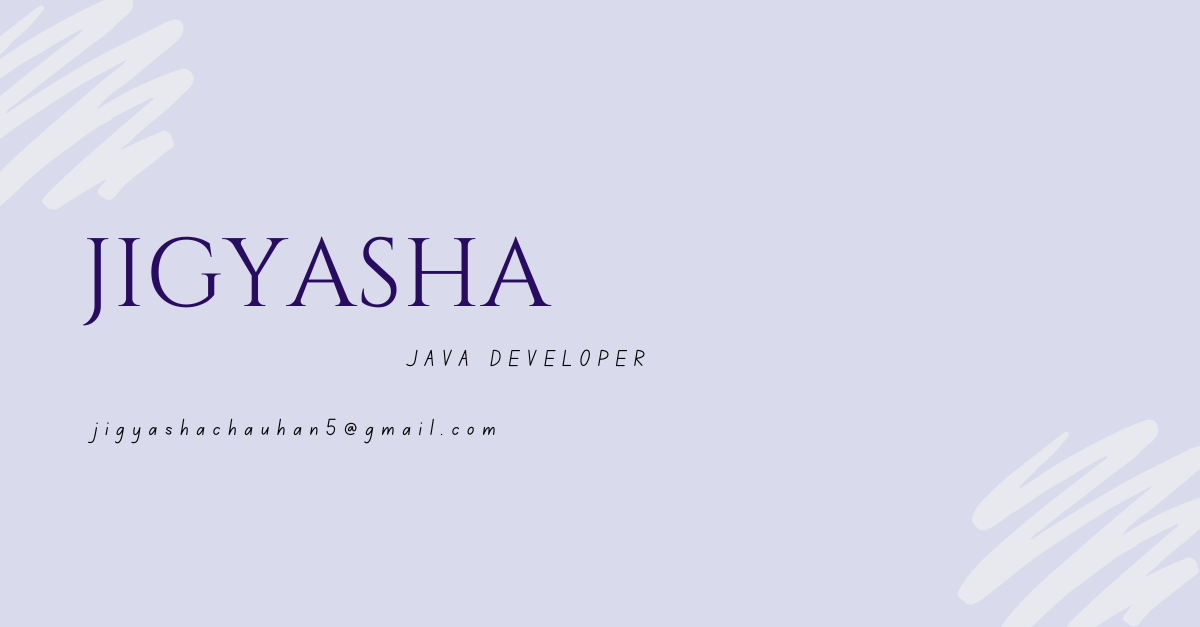
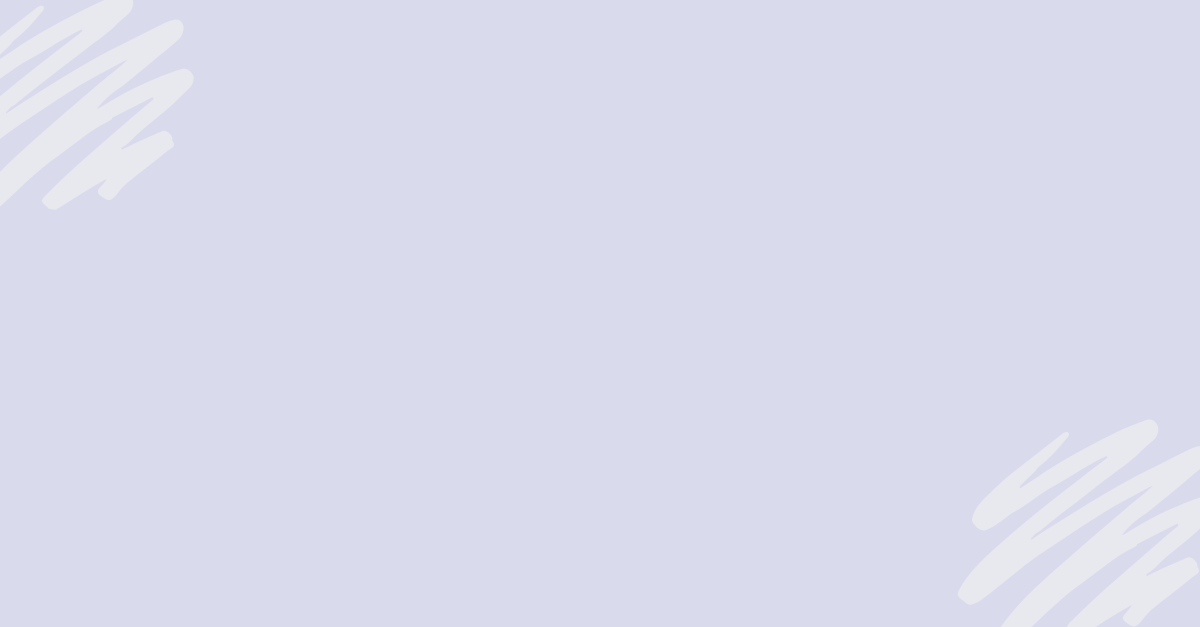
Add file

Changed region(s): [[0.0617, 0.3636, 0.4625, 0.5152], [0.0925, 0.6667, 0.37, 0.697], [0.37, 0.5455, 0.5242, 0.5758]]

diff --git a/index.html b/index.html
@@ -21,35 +21,36 @@
 
   <section>
     <!-- Navbar Start -->
- <div class="container-fluid fixed-top px-0 wow fadeIn shadow-lg  data-wow-delay="0.1s style="top: 0px">
-   <div class="top-bar row gx-0 align-items-center d-none d-lg-flex">
-       <div class="col-lg-6 px-5 text-end">
-         
-           <small><i class="fa fa-envelope text-primary me-2"></i><a href="mailto:jigyashachauhan5@gmail.com">jigyashachauhan5@gmail.com</a></small>
-           <small class="ms-4"><i class="fa fa-phone-alt text-primary me-2"></i><a href="tel:+916398480640">+91 6398480640</a></small>
-       </div>
-   </div>
- 
-   <nav class="navbar navbar-expand-lg navbar-light py-lg-0 px-lg-5 wow fadeIn" data-wow-delay="0.1s">
-       <a href="#" class="navbar-brand ms-4 ms-lg-0 animated slideInUp ">
-           <h1 class="display-5 text-primary m-0">CodeLine</h1>
-       </a>
-       <button type="button" class="navbar-toggler me-4" data-bs-toggle="collapse"
-           data-bs-target="#navbarCollapse">
-           <span class="navbar-toggler-icon"></span>
-       </button>
-       <div class="collapse navbar-collapse animated slideInDown" id="navbarCollapse">
-           <div class="navbar-nav ms-auto p-4 p-lg-0">
-               <a href="#" class="nav-item nav-link active">Home</a>
-               <a href="#about" class="nav-item nav-link">About</a>
-               <a href="#services" class="nav-item nav-link">Services</a>
-               <a href="#projects" class="nav-item nav-link">Projects</a>
-               <a href="#contact" class="nav-item nav-link">Contact</a>
-           </div>
-       </div>
-   </nav>
- </div>
- <!-- Navbar End -->
+    <div class="container-fluid fixed-top px-0 wow fadeIn shadow-lg  data-wow-delay=" 0.1s style="top: 0px">
+      <div class="top-bar row gx-0 align-items-center d-none d-lg-flex">
+        <div class="col-lg-6 px-5 text-end">
+
+          <small><i class="fa fa-envelope text-primary me-2"></i><a
+              href="mailto:jigyashachauhan5@gmail.com">jigyashachauhan5@gmail.com</a></small>
+          <small class="ms-4"><i class="fa fa-phone-alt text-primary me-2"></i><a href="tel:+916398480640">+91
+              6398480640</a></small>
+        </div>
+      </div>
+
+      <nav class="navbar navbar-expand-lg navbar-light py-lg-0 px-lg-5 wow fadeIn" data-wow-delay="0.1s">
+        <a href="#" class="navbar-brand ms-4 ms-lg-0 animated slideInUp ">
+          <h1 class="display-5 text-primary m-0">CodeLine</h1>
+        </a>
+        <button type="button" class="navbar-toggler me-4" data-bs-toggle="collapse" data-bs-target="#navbarCollapse">
+          <span class="navbar-toggler-icon"></span>
+        </button>
+        <div class="collapse navbar-collapse animated slideInDown" id="navbarCollapse">
+          <div class="navbar-nav ms-auto p-4 p-lg-0">
+            <a href="#" class="nav-item nav-link active">Home</a>
+            <a href="#about" class="nav-item nav-link">About</a>
+            <a href="#services" class="nav-item nav-link">Services</a>
+            <a href="#projects" class="nav-item nav-link">Projects</a>
+            <a href="#contact" class="nav-item nav-link">Contact</a>
+          </div>
+        </div>
+      </nav>
+    </div>
+    <!-- Navbar End -->
   </section>
 
   <!-- Carousel Start -->
@@ -57,20 +58,34 @@
     <div id="header-carousel" class="carousel slide carousel-fade" data-bs-ride="carousel">
       <div class="carousel-inner">
         <div class="carousel-item active">
-          <img class="img-fluid" src="images/bn page.png" alt="">
-        </div>
-        <div class="carousel-item">
-          <img class="img-fluid" src="images/Single Image.png" alt="">
+          <img class="img-fluid" src="images/bn design.png" alt="banner">
           <div class="carousel-caption">
             <div class="container">
               <div class="row justify-content-start">
-                <!-- <div class="col-lg-5">
+                <div class="col-lg-6">
+                  <h4 class="display-3 mb-0 animated slideInLeft text-primary">JIGYASHA CHAUHAN</h4>
+                  <p class="animated slideInLeft px-2"><small class="text-success" style="font-size: 24px;">Java
+                      Developer</small> </p>
+                  <a href="mailto:jigyashachauhan5@gmail.com"
+                    class="btn btn-warning py-2 px-5 animated slideInDown"><b>Mail</b></a>
+                </div>
+
+              </div>
+            </div>
+          </div>
+        </div>
+        <div class="carousel-item">
+          <img class="img-fluid" src="images/bn design.png" alt="">
+          <div class="carousel-caption">
+            <div class="container">
+              <div class="row justify-content-start">
+                <div class="col-lg-5">
                   <h4 class="display-4 mb-0 animated slideInDown text-primary">Turning Ideas into Code, and Code into
                     Solutions.</h4>
                   <hr>
                   <a href="tel:+916398480640" class="btn btn-danger py-2 px-5 animated slideInDown">
                     <b>Call</b></a>
-                </div> -->
+                </div>
 
               </div>
             </div>
@@ -104,9 +119,11 @@
 
             <h1 class="display-5 mb-4">Turning Code into Real-World Solutions</h1>
             <p class="mb-4" style="text-align: justify;">Hi, I'm Jigyasha — a passionate Java Developer with a solid
-              foundation in backend development using Java, Spring Boot, and MySQL.Alongside backend skills, I also have
+              foundation in backend development using Java, Spring Boot, and MySQL.Alongside backend skills, I also
+              have
               experience with HTML, CSS, and JavaScript, allowing me to build
-              responsive and interactive frontends as well. I specialize in building RESTful APIs, solving complex logic
+              responsive and interactive frontends as well. I specialize in building RESTful APIs, solving complex
+              logic
               problems, and delivering clean, maintainable
               code for web applications.Whether it’s building a backend system or designing a frontend layout, I focus
               on writing quality code and
@@ -144,8 +161,8 @@
         </div>
         <!-- Right: Image/Preview (optional) -->
         <div class="col-md-6 text-center">
-          <img src="images/library design.png" class="img-fluid rounded shadow"
-            style="max-width: 100%; height: auto;" alt="Car Price Project">
+          <img src="images/library design.png" class="img-fluid rounded shadow" style="max-width: 100%; height: auto;"
+            alt="Car Price Project">
         </div>
       </div>
 
@@ -268,7 +285,10 @@ using java Mysql and SpringBoot Framework
               <label for="email" class="form-label">Email Address</label>
               <input type="email" name="Email" class="form-control" id="email" required>
             </div>
-
+            <div class="mb-3">
+              <label for="message" class="form-label">Message</label>
+              <textarea class="form-control" id="message" name="message" rows="4" required></textarea>
+            </div>
             <div class="d-grid">
               <button type="submit" class="btn btn-primary">Submit</button>
             </div>
@@ -303,6 +323,10 @@ using java Mysql and SpringBoot Framework
   </footer>
   <!--Footer ends-->
 
+  <!--Javascript file-->
+  <script src="https://cdn.jsdelivr.net/npm/bootstrap@5.0.2/dist/js/bootstrap.bundle.min.js"
+    integrity="sha384-MrcW6ZMFYlzcLA8Nl+NtUVF0sA7MsXsP1UyJoMp4YLEuNSfAP+JcXn/tWtIaxVXM"
+    crossorigin="anonymous"></script>
 </body>
 
 </html>

diff --git a/style.css b/style.css
@@ -18,7 +18,7 @@
 .top-bar {
     height: 45px;
     border-bottom: 1px solid rgba(53, 94, 252, .07);
-    position: relative; 
+    position: relative;
     z-index: auto;
     background-color: white;
     box-shadow: 0 2px 10px rgba(0, 0, 0, 0.1);
@@ -99,13 +99,60 @@ h6,
         margin-top: 120px;
     }
 }
- /* Carousel start  */
+
+/* Carousel start  */
 .carousel-inner .carousel-item img {
-  width: 100%;
-  height: 480px; 
-  object-fit: cover; 
-  display: block;
-  margin: 0 auto; 
+    width: 100%;
+    height: 480px;
+    object-fit: cover;
+    display: block;
+    margin: 0 auto;
 }
- /* Carousel End  */
- 
+
+/* Carousel End  */
+
+/* fixed image */
+.carousel-caption {
+    top: 0;
+    left: 0;
+    right: 0;
+    bottom: 0;
+    display: flex;
+    align-items: center;
+    justify-content: center;
+    text-align: start;
+    z-index: 1;
+}
+
+.carousel-control-prev,
+.carousel-control-next {
+    width: 3rem;
+}
+.carousel-control-prev-icon,
+.carousel-control-next-icon {
+    width: 3rem;
+    height: 3rem;
+    background-color: var(--primary);
+    border: 10px solid var(--primary);
+}
+
+.carousel-control-prev-icon {
+    border-radius: 0 3rem 3rem 0;
+}
+
+.carousel-control-next-icon {
+    border-radius: 3rem 0 0 3rem;
+}
+@media (max-width: 768px) {
+    #header-carousel .carousel-item {
+        position: relative;
+        min-height: 450px;
+    }
+    
+    #header-carousel .carousel-item img {
+        position: absolute;
+        width: 100%;
+        height: 100%;
+        object-fit: cover;
+    }
+}
